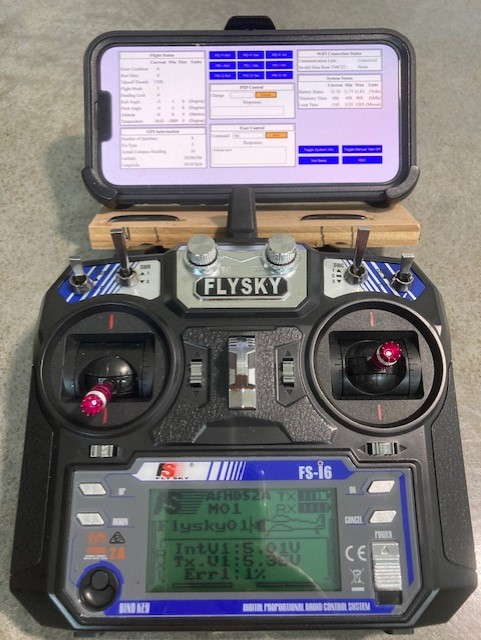
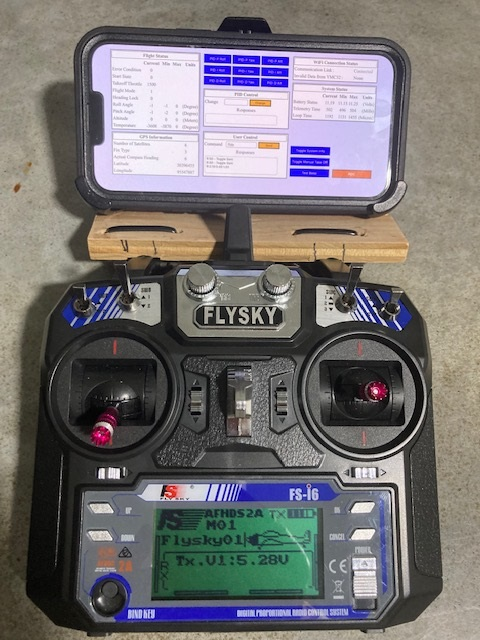
Update position of control buttons.

diff --git a/webpage.html b/webpage.html
@@ -93,7 +93,7 @@
             }
             div.sysinfobutton {
                 position: absolute;
-                top: 365px;
+                top: 325px;
                 left: 664px;
             }
             div.beepbutton {
@@ -104,7 +104,7 @@
             div.takeoffbutton {
                 position: absolute;
                 top: 365px;
-                left: 825px;
+                left: 664px;
             }
             div.rdcbutton {
                 position: absolute;
@@ -179,7 +179,7 @@
             .sendrdc {
                 border: solid;
                 border-color: black;
-                background-color: Blue;
+                background-color: #e9692c;
                 color: white;
                 padding: 5px 5px;
                 width: 150px;
